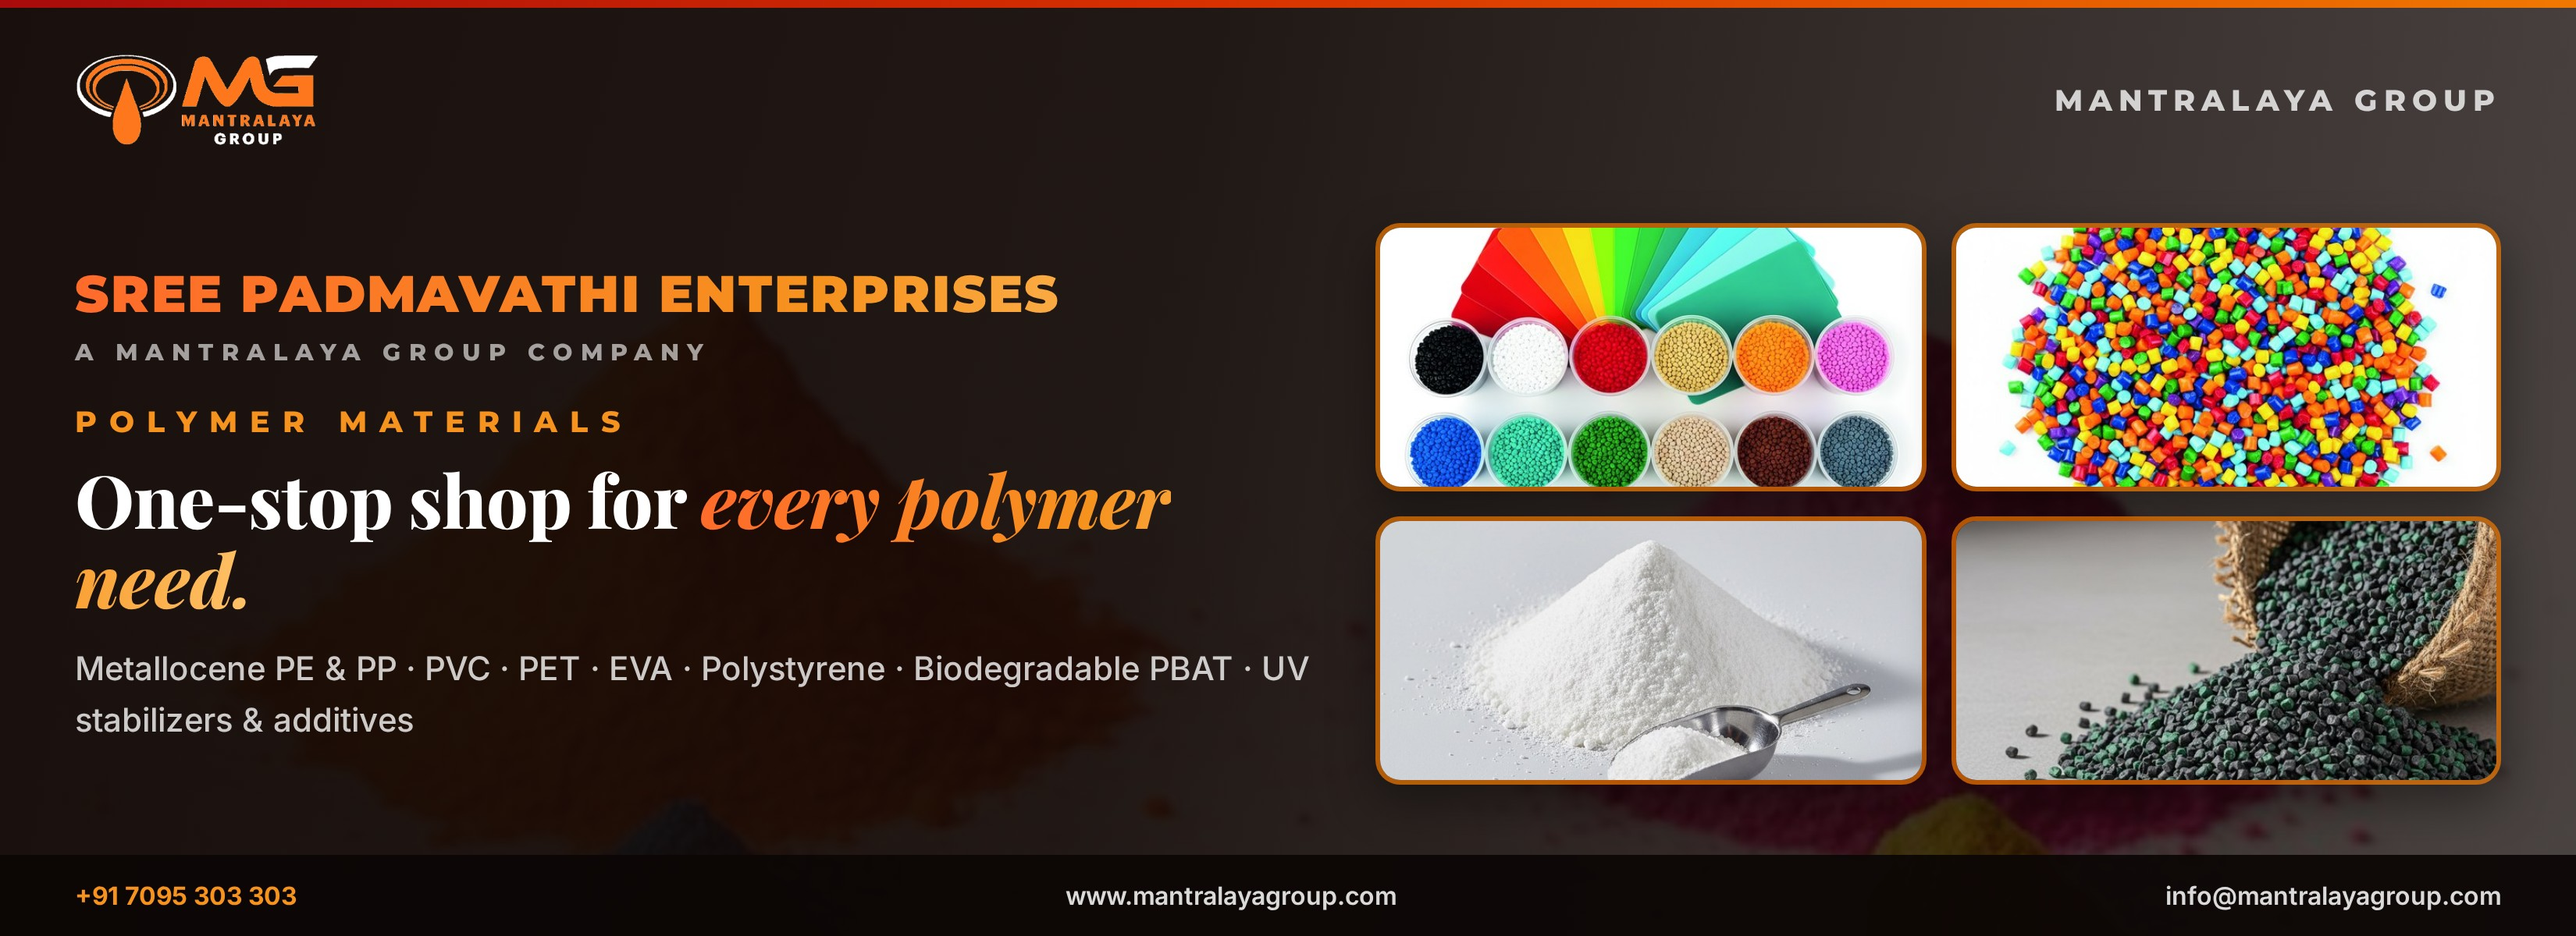
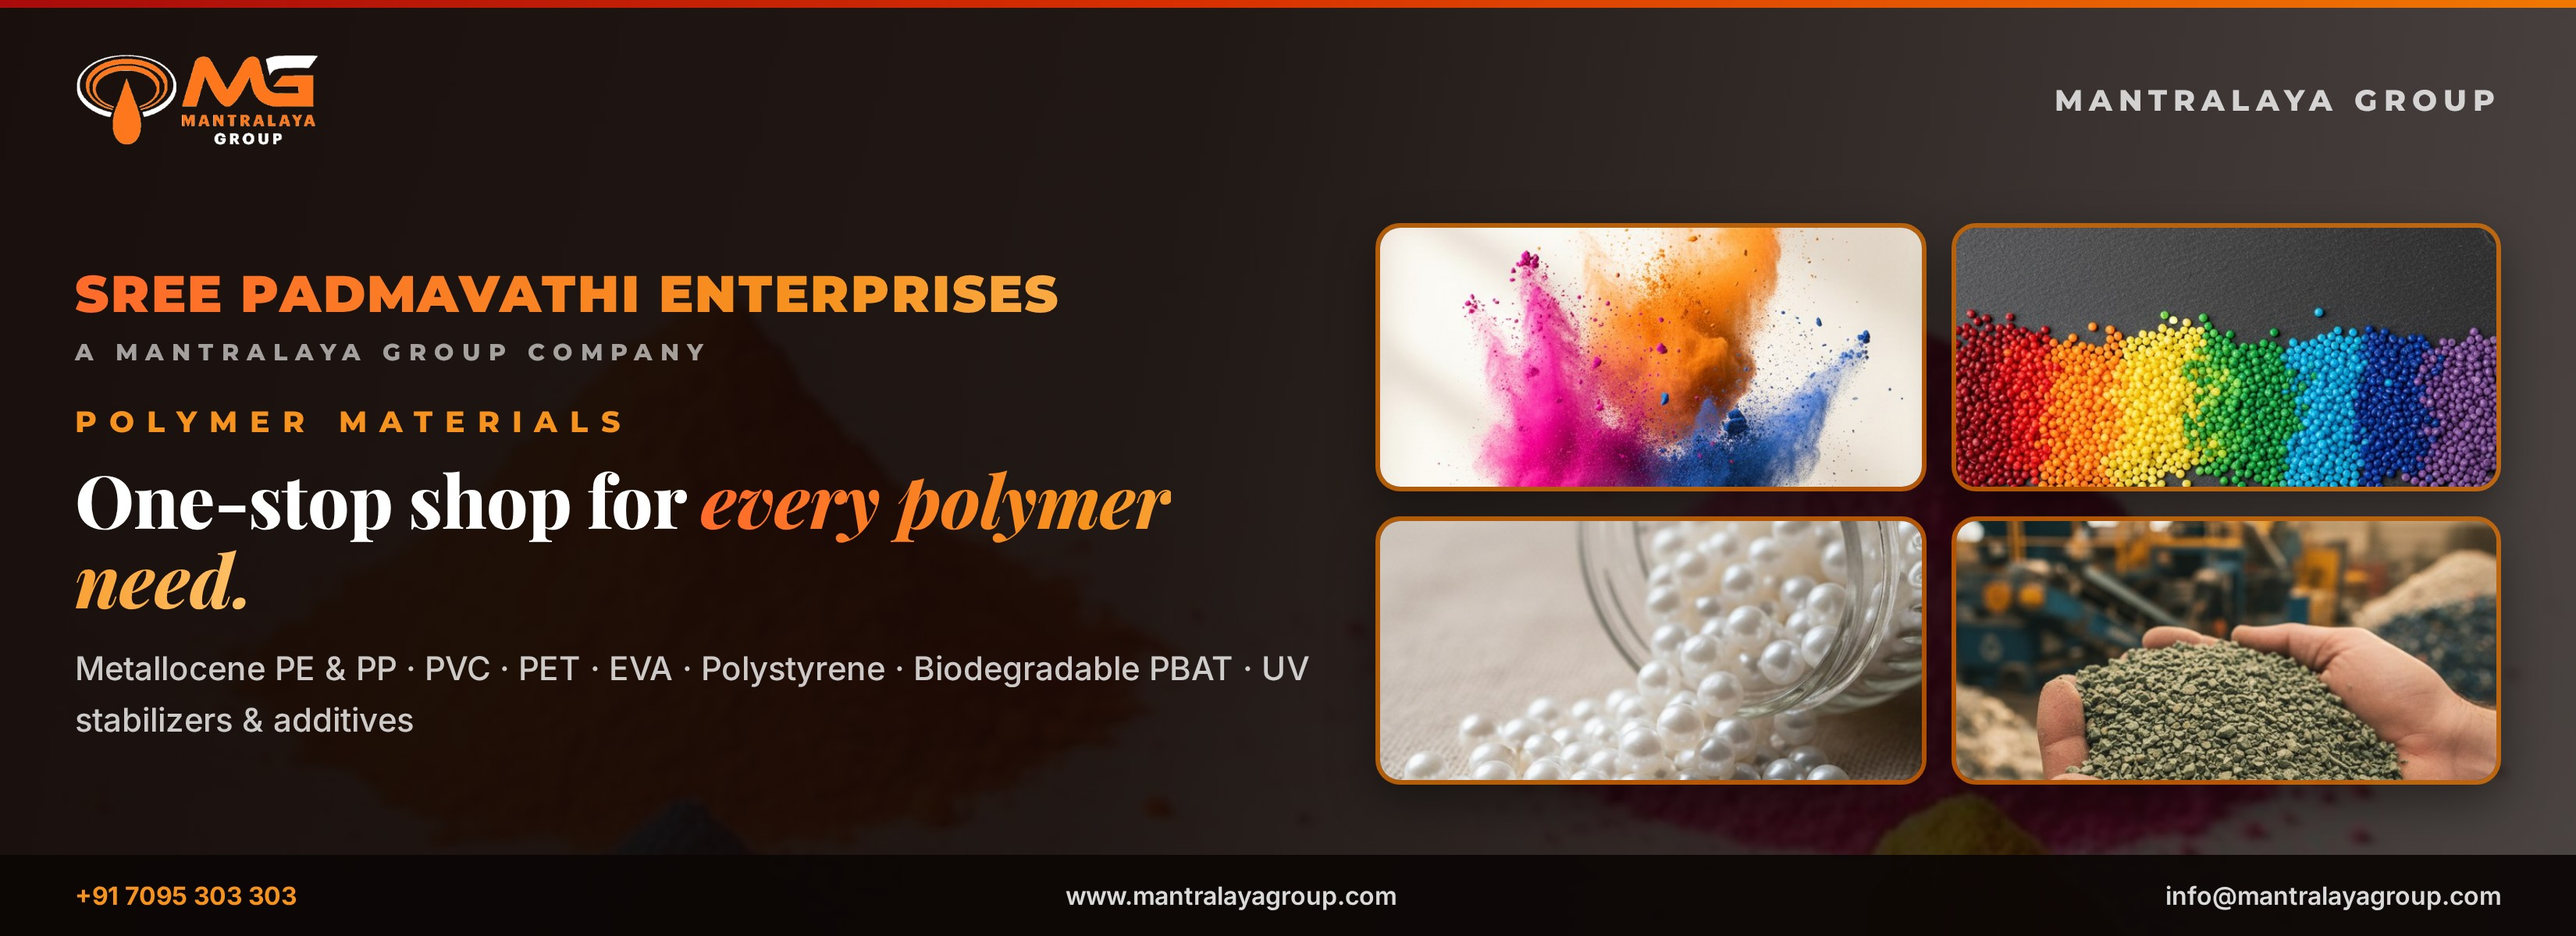
SSAMA & SPE posters: 8 freshly generated unique product photos

Changed region(s): [[0.5306, 0.2158, 0.9676, 0.5242], [0.5306, 0.555, 0.9676, 0.8325]]

diff --git a/posters/src/poster-spe-2200x800--dark.html b/posters/src/poster-spe-2200x800--dark.html
@@ -27,4 +27,4 @@ body{width:1650px;height:600px;overflow:hidden;position:relative;font-family:'Mo
 .tiles.three .tile{aspect-ratio:1.5}
 .tiles.three .tile:nth-child(3){grid-column:span 2;aspect-ratio:3.8}
 </style><div class="bgimg"><img src="../../products/pigments.jpg"></div><div class="rule"></div><div class="hdr"><img src="../../mg-logo-dark.png"><div class="co">MANTRALAYA GROUP</div></div>
-<div class="wrap z"><div class="lt"><div class="cohero">SREE PADMAVATHI ENTERPRISES</div><div class="cotag">A MANTRALAYA GROUP COMPANY</div><div class="label">POLYMER MATERIALS</div><div class="cap cap2">One-stop shop for <em>every polymer need.</em></div><div class="sub">Metallocene PE &amp; PP · PVC · PET · EVA · Polystyrene · Biodegradable PBAT · UV stabilizers &amp; additives</div></div><div class="tiles"><div class="tile"><img src="../../products/jkp-fan.jpg"></div><div class="tile"><img src="../../products/jkp-granules.jpg"></div><div class="tile"><img src="../../products/moisture-powder-full.jpg"></div><div class="tile"><img src="../../products/recycled-granules.jpg"></div></div></div><div class="ftr"><span><b>+91 7095 303 303</b></span><span>www.mantralayagroup.com</span><span>info@mantralayagroup.com</span></div></body></html>
+<div class="wrap z"><div class="lt"><div class="cohero">SREE PADMAVATHI ENTERPRISES</div><div class="cotag">A MANTRALAYA GROUP COMPANY</div><div class="label">POLYMER MATERIALS</div><div class="cap cap2">One-stop shop for <em>every polymer need.</em></div><div class="sub">Metallocene PE &amp; PP · PVC · PET · EVA · Polystyrene · Biodegradable PBAT · UV stabilizers &amp; additives</div></div><div class="tiles"><div class="tile"><img src="../../products/gen-pigment-burst.jpg"></div><div class="tile"><img src="../../products/gen-granule-gradient.jpg"></div><div class="tile"><img src="../../products/gen-dana-pearls.jpg"></div><div class="tile"><img src="../../products/gen-eco-granules.jpg"></div></div></div><div class="ftr"><span><b>+91 7095 303 303</b></span><span>www.mantralayagroup.com</span><span>info@mantralayagroup.com</span></div></body></html>

diff --git a/posters/src/poster-spe-2200x800--light.html b/posters/src/poster-spe-2200x800--light.html
@@ -27,4 +27,4 @@ body{width:1650px;height:600px;overflow:hidden;position:relative;font-family:'Mo
 .tiles.three .tile{aspect-ratio:1.5}
 .tiles.three .tile:nth-child(3){grid-column:span 2;aspect-ratio:3.8}
 </style><div class="bgimg"><img src="../../products/pigments.jpg"></div><div class="rule"></div><div class="hdr"><img src="../../mg-logo.png"><div class="co">MANTRALAYA GROUP</div></div>
-<div class="wrap z"><div class="lt"><div class="cohero">SREE PADMAVATHI ENTERPRISES</div><div class="cotag">A MANTRALAYA GROUP COMPANY</div><div class="label">POLYMER MATERIALS</div><div class="cap cap2">One-stop shop for <em>every polymer need.</em></div><div class="sub">Metallocene PE &amp; PP · PVC · PET · EVA · Polystyrene · Biodegradable PBAT · UV stabilizers &amp; additives</div></div><div class="tiles"><div class="tile"><img src="../../products/jkp-fan.jpg"></div><div class="tile"><img src="../../products/jkp-granules.jpg"></div><div class="tile"><img src="../../products/moisture-powder-full.jpg"></div><div class="tile"><img src="../../products/recycled-granules.jpg"></div></div></div><div class="ftr"><span><b>+91 7095 303 303</b></span><span>www.mantralayagroup.com</span><span>info@mantralayagroup.com</span></div></body></html>
+<div class="wrap z"><div class="lt"><div class="cohero">SREE PADMAVATHI ENTERPRISES</div><div class="cotag">A MANTRALAYA GROUP COMPANY</div><div class="label">POLYMER MATERIALS</div><div class="cap cap2">One-stop shop for <em>every polymer need.</em></div><div class="sub">Metallocene PE &amp; PP · PVC · PET · EVA · Polystyrene · Biodegradable PBAT · UV stabilizers &amp; additives</div></div><div class="tiles"><div class="tile"><img src="../../products/gen-pigment-burst.jpg"></div><div class="tile"><img src="../../products/gen-granule-gradient.jpg"></div><div class="tile"><img src="../../products/gen-dana-pearls.jpg"></div><div class="tile"><img src="../../products/gen-eco-granules.jpg"></div></div></div><div class="ftr"><span><b>+91 7095 303 303</b></span><span>www.mantralayagroup.com</span><span>info@mantralayagroup.com</span></div></body></html>

diff --git a/posters/src/poster-ssama-1000x1000--dark.html b/posters/src/poster-ssama-1000x1000--dark.html
@@ -29,6 +29,6 @@ body{width:1000px;height:1000px;overflow:hidden;position:relative;font-family:'M
 <div class="cohero">SREE SAI AMBICA MARKETING AGENCIES</div>
 <div class="cotag">A MANTRALAYA GROUP COMPANY</div>
 <div class="cap cap2">Raw materials to <em>end products.</em></div>
-<div class="tgrid"><div class="tw"><div class="tile"><img src="../../products/pigments.jpg"></div><div class="tlb">PIGMENTS</div></div><div class="tw"><div class="tile"><img src="../../products/jkp-granule-jars.jpg"></div><div class="tlb">MASTER BATCHES</div></div><div class="tw"><div class="tile"><img src="../../products/moisture-powder.jpg"></div><div class="tlb">MOISTURE POWDER</div></div><div class="tw"><div class="tile"><img src="../../products/treated-rolls.jpg"></div><div class="tlb">POLY FILMS</div></div></div>
+<div class="tgrid"><div class="tw"><div class="tile"><img src="../../products/gen-pigment-scoops.jpg"></div><div class="tlb">PIGMENTS</div></div><div class="tw"><div class="tile"><img src="../../products/gen-mb-beakers.jpg"></div><div class="tlb">MASTER BATCHES</div></div><div class="tw"><div class="tile"><img src="../../products/gen-powder-pour.jpg"></div><div class="tlb">MOISTURE POWDER</div></div><div class="tw"><div class="tile"><img src="../../products/gen-film-macro.jpg"></div><div class="tlb">POLY FILMS</div></div></div>
 <div class="sub">Plastic raw materials · Additives · Pigments · Master batches · Moisture powder</div>
 </div><div class="ftr"><span><b>+91 7095 303 303</b></span><span>www.mantralayagroup.com</span><span>info@mantralayagroup.com</span></div></body></html>

diff --git a/posters/src/poster-ssama-1000x1000--light.html b/posters/src/poster-ssama-1000x1000--light.html
@@ -29,6 +29,6 @@ body{width:1000px;height:1000px;overflow:hidden;position:relative;font-family:'M
 <div class="cohero">SREE SAI AMBICA MARKETING AGENCIES</div>
 <div class="cotag">A MANTRALAYA GROUP COMPANY</div>
 <div class="cap cap2">Raw materials to <em>end products.</em></div>
-<div class="tgrid"><div class="tw"><div class="tile"><img src="../../products/pigments.jpg"></div><div class="tlb">PIGMENTS</div></div><div class="tw"><div class="tile"><img src="../../products/jkp-granule-jars.jpg"></div><div class="tlb">MASTER BATCHES</div></div><div class="tw"><div class="tile"><img src="../../products/moisture-powder.jpg"></div><div class="tlb">MOISTURE POWDER</div></div><div class="tw"><div class="tile"><img src="../../products/treated-rolls.jpg"></div><div class="tlb">POLY FILMS</div></div></div>
+<div class="tgrid"><div class="tw"><div class="tile"><img src="../../products/gen-pigment-scoops.jpg"></div><div class="tlb">PIGMENTS</div></div><div class="tw"><div class="tile"><img src="../../products/gen-mb-beakers.jpg"></div><div class="tlb">MASTER BATCHES</div></div><div class="tw"><div class="tile"><img src="../../products/gen-powder-pour.jpg"></div><div class="tlb">MOISTURE POWDER</div></div><div class="tw"><div class="tile"><img src="../../products/gen-film-macro.jpg"></div><div class="tlb">POLY FILMS</div></div></div>
 <div class="sub">Plastic raw materials · Additives · Pigments · Master batches · Moisture powder</div>
 </div><div class="ftr"><span><b>+91 7095 303 303</b></span><span>www.mantralayagroup.com</span><span>info@mantralayagroup.com</span></div></body></html>

diff --git a/posters/gen2.py b/posters/gen2.py
@@ -562,10 +562,10 @@ def build(dark):
     v['poster-locations-map-800x1000'] = (800,1000, loc_map_p(800,1000,dark))
     v['poster-spe-2200x800'] = (1650,600, duoposter(1650,600,dark,'POLYMER MATERIALS',f"One-stop shop for {em('every polymer need.')}",
       'Metallocene PE &amp; PP · PVC · PET · EVA · Polystyrene · Biodegradable PBAT · UV stabilizers &amp; additives',
-      ['jkp-fan','jkp-granules','moisture-powder-full','recycled-granules'],'pigments',cohero='SREE PADMAVATHI ENTERPRISES',tile_ar=2.05,cohero_size=33))
+      ['gen-pigment-burst','gen-granule-gradient','gen-dana-pearls','gen-eco-granules'],'pigments',cohero='SREE PADMAVATHI ENTERPRISES',tile_ar=2.05,cohero_size=33))
     v['poster-ssama-1000x1000'] = (1000,1000, compco_sq(1000,1000,dark,'SREE SAI AMBICA MARKETING AGENCIES',
       f"Raw materials to {em('end products.')}",
-      [('pigments','PIGMENTS'),('jkp-granule-jars','MASTER BATCHES'),('moisture-powder','MOISTURE POWDER'),('treated-rolls','POLY FILMS')],
+      [('gen-pigment-scoops','PIGMENTS'),('gen-mb-beakers','MASTER BATCHES'),('gen-powder-pour','MOISTURE POWDER'),('gen-film-macro','POLY FILMS')],
       'Plastic raw materials · Additives · Pigments · Master batches · Moisture powder'))
     return v
 
